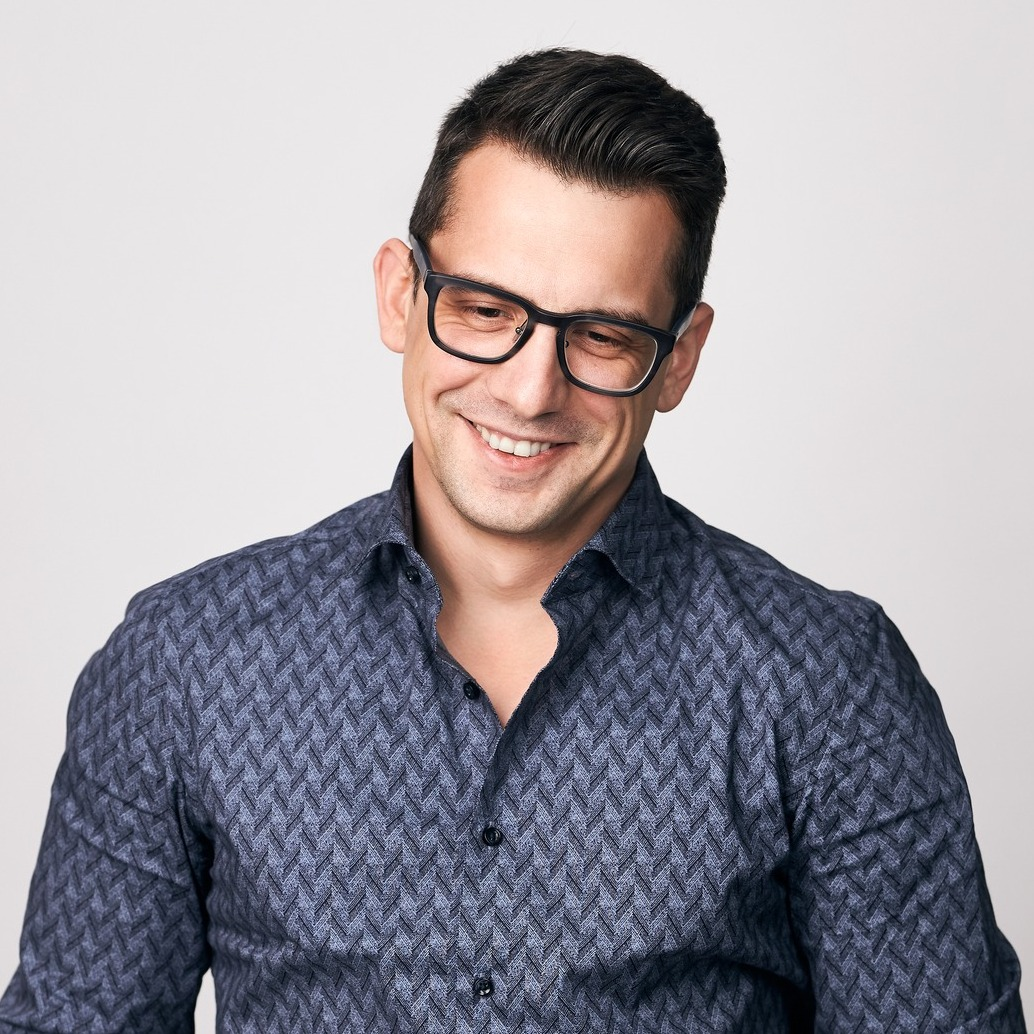
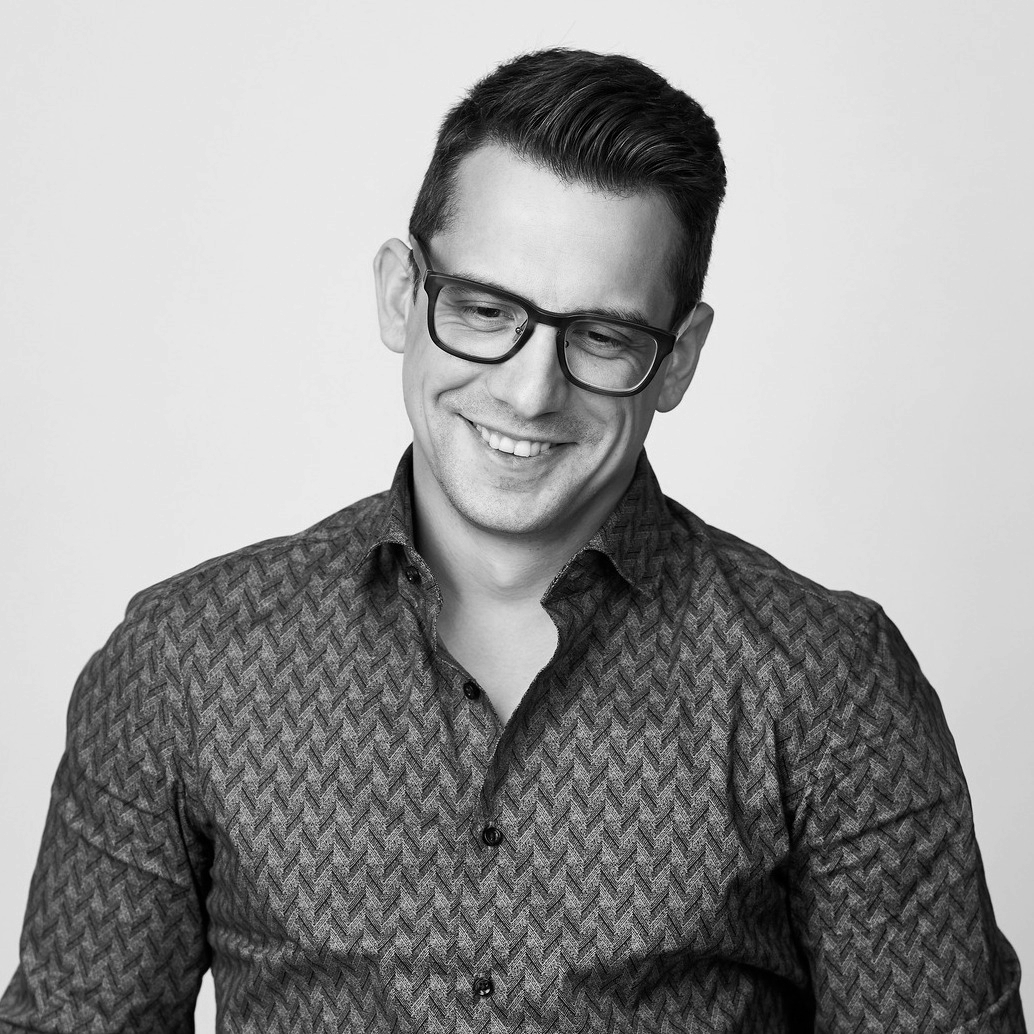
added error control

Changed region(s): [[0.0, 0.1238, 0.9284, 1.0], [0.619, 0.9903, 0.6809, 1.0]]

diff --git a/app.js b/app.js
@@ -66,6 +66,26 @@ const prepareOutputFilename = (filename) => {
     return `${name}-with-watermark.${ext}`;
 };
 
+const editImage = async (inputFile, editType) => {
+    const image = await Jimp.read(inputFile);
+    switch (editType) {
+        case 'make image brighter':
+            image.brightness(0.1);
+            break;
+        case 'increase contrast':
+            image.contrast(0.1);
+            break;
+        case 'make image b&w':
+            image.greyscale();
+            break;
+        case 'invert image':
+            image.invert();
+            break;
+    }
+    await image.writeAsync(inputFile);
+};
+
+
 const startApp = async () => {
     const answer = await inquirer.prompt([{
         name: 'start',
@@ -80,15 +100,45 @@ const startApp = async () => {
         type: 'input',
         message: 'What file do you want to mark?',
         default: 'MojaFota.jpg',
-    }, {
-        name: 'watermarkType',
-        type: 'list',
-        choices: ['Text watermark', 'Image watermark'],
     }]);
 
     try {
-        await checkFileExists('./img/' + options.inputImage);
-        if (options.watermarkType === 'Image watermark') {
+        const inputPath = './img/' + options.inputImage;
+        await checkFileExists(inputPath);
+
+        const editAnswer = await inquirer.prompt([{
+            name: 'edit',
+            type: 'confirm',
+            message: 'Do you want to edit the image before adding a watermark?',
+        }]);
+
+        if (editAnswer.edit) {
+            const editType = await inquirer.prompt([{
+                name: 'type',
+                type: 'list',
+                message: 'Choose the type of modification:',
+                choices: ['make image brighter', 'increase contrast', 'make image b&w', 'invert image'],
+            }]);
+            await editImage(inputPath, editType.type);
+        }
+
+        const watermarkTypeAnswer = await inquirer.prompt([{
+            name: 'watermarkType',
+            type: 'list',
+            choices: ['Text watermark', 'Image watermark'],
+        }]);
+
+        const outputPath = prepareOutputFilename(inputPath);
+
+        if (watermarkTypeAnswer.watermarkType === 'Text watermark') {
+            const text = await inquirer.prompt([{
+                name: 'value',
+                type: 'input',
+                message: 'Type your watermark text:',
+            }])
+            options.watermarkText = text.value;
+            await addTextWatermarkToImage(inputPath, outputPath, options.watermarkText);
+        } else {
             const image = await inquirer.prompt([{
                 name: 'filename',
                 type: 'input',
@@ -96,17 +146,12 @@ const startApp = async () => {
                 default: 'logo.png',
             }])
             options.watermarkImage = image.filename;
-            await checkFileExists('./img/' + options.watermarkImage);
-            addImageWatermarkToImage('./img/' + options.inputImage, './img/' + prepareOutputFilename(options.inputImage), './img/' + options.watermarkImage);
-        } else {
-            const text = await inquirer.prompt([{
-                name: 'value',
-                type: 'input',
-                message: 'Type your watermark text:',
-            }])
-            options.watermarkText = text.value;
-            addTextWatermarkToImage('./img/' + options.inputImage, './img/' + prepareOutputFilename(options.inputImage), options.watermarkText);
+            const watermarkPath = './img/' + options.watermarkImage;
+            await checkFileExists(watermarkPath);
+            await addImageWatermarkToImage(inputPath, outputPath, watermarkPath);
         }
+
+        console.log('All operations completed successfully. Check the output file:', outputPath);
     } catch (error) {
         console.log(error);
         startApp();
@@ -114,7 +159,3 @@ const startApp = async () => {
 };
 
 startApp();
-
-
-
-
